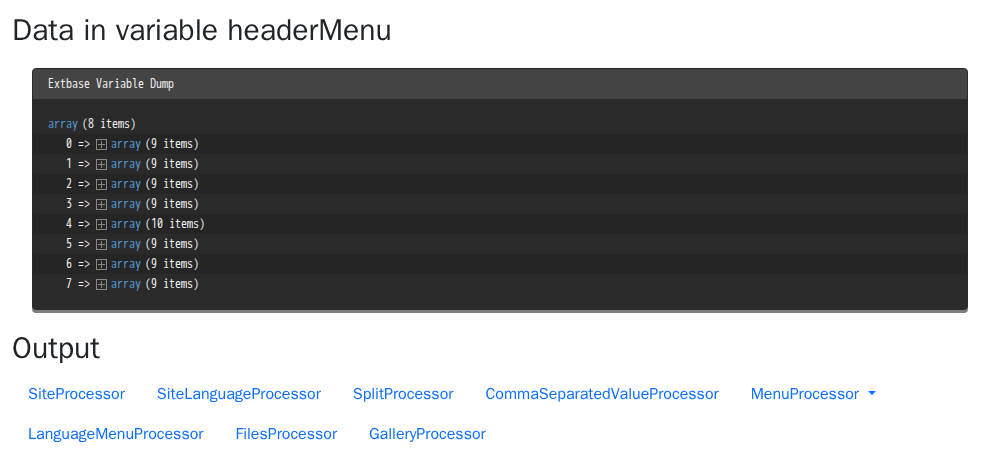
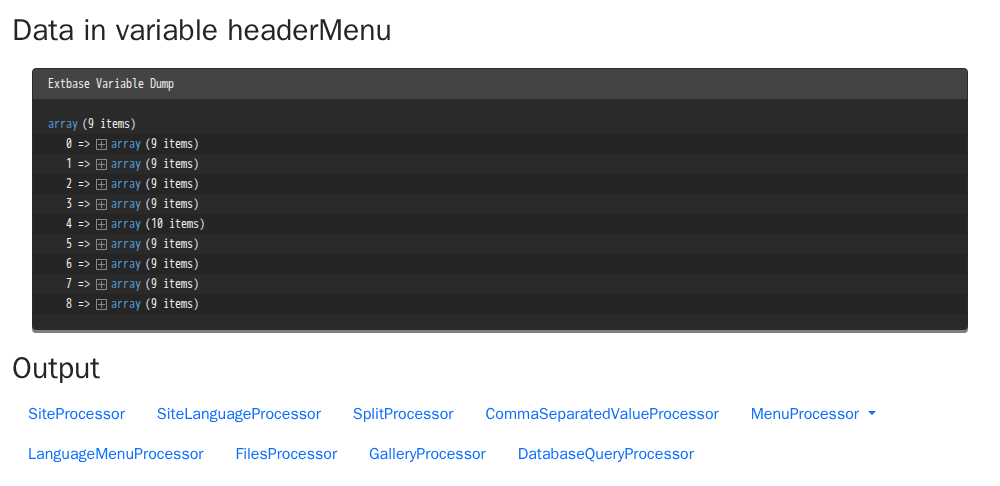
[TASK] Replace the haiku example of the database query processor (#2068)
* [TASK] Replace the haiku example of the database query processor

The example read records of a table from the examples extension, which
the manual does not ship. It now lists the speakers of a conference from
an example extension of this manual, whose files the page includes, and
the screenshot generator renders it with the speakers it creates.

Releases: main, 14.3
Assisted-by: Claude Opus 5.5 <noreply@anthropic.com>

* [TASK] Follow the writing rules in the speaker example

Releases: main, 14.3
Assisted-by: Claude Opus 5.5 <noreply@anthropic.com>

---------

diff --git a/Documentation/CodeSnippets/my_extension/Resources/Private/Templates/ContentElements/Speakers.fluid.html b/Documentation/CodeSnippets/my_extension/Resources/Private/Templates/ContentElements/Speakers.fluid.html
@@ -1,0 +1,22 @@
+<html data-namespace-typo3-fluid="true" xmlns:f="http://typo3.org/ns/TYPO3/CMS/Fluid/ViewHelpers">
+  <h2>Data in variable speakers</h2>
+  <f:debug inline="true">{speakers}</f:debug>
+
+  <h2>Output</h2>
+  <div class="row">
+    <f:for each="{speakers}" as="speaker">
+      <div class="col-12 col-md-4">
+        <div class="card">
+          <f:if condition="{speaker.files.0}">
+            <f:image image="{speaker.files.0}" class="card-img-top h-auto" width="400"/>
+          </f:if>
+          <div class="card-body">
+            <h5 class="card-title">{speaker.data.name}</h5>
+            <h6 class="card-subtitle text-body-secondary">{speaker.data.company}</h6>
+            <div class="card-text"><f:format.html>{speaker.data.bio}</f:format.html></div>
+          </div>
+        </div>
+      </div>
+    </f:for>
+  </div>
+</html>

diff --git a/Build/Screenshots/create-records.php b/Build/Screenshots/create-records.php
@@ -306,6 +306,9 @@ $examples = [
         // The example takes the border from this field
         'imageborder' => 1,
     ],
+    // The TypoScript of this example comes with the set of the example
+    // extension in Documentation/CodeSnippets/my_extension
+    'dataProcDb' => ['title' => 'DatabaseQueryProcessor', 'CType' => 'myextension_speakers'],
 ];
 $dataHandler = $process(['pages' => [
     'NEWdataProcessors' => ['pid' => 0, 'title' => 'Data processors', 'is_siteroot' => 1, 'hidden' => 0],
@@ -327,6 +330,13 @@ $process(['pages' => [
     'NEWmenuPage2' => ['pid' => $uids['dataProcMenu'], 'title' => 'Second page', 'hidden' => 0],
     'NEWmenuPage1' => ['pid' => $uids['dataProcMenu'], 'title' => 'First page', 'hidden' => 0],
 ]]);
+// The folder with the speakers that the database query example reads from
+// the field "pages" of its content element
+$dataHandler = $process(['pages' => [
+    'NEWspeakers' => ['pid' => $uids['dataProcDb'], 'title' => 'Speakers', 'doktype' => 254, 'hidden' => 0],
+]]);
+$uids['speakers'] = $dataHandler->substNEWwithIDs['NEWspeakers'];
+$examples['dataProcDb']['pages'] = (string)$uids['speakers'];
 // The content element types exist only in the TypoScript of the examples,
 // not in the TCA, so the DataHandler would refuse them. The CSV example
 // reads its separator from a field of the examples extension.
@@ -350,6 +360,36 @@ foreach ([[0x1f6feb, 'Blue circle'], [0x2da44e, 'Green circle'], [0xfb8500, 'Ora
     imagepng($image, $path);
     $files[] = [$storage->addFile($path, $folder, strtolower(str_replace(' ', '-', $title)) . '.png'), $title];
 }
+// The speakers of the example extension, the first one with a photo: a
+// drawn silhouette
+$image = imagecreatetruecolor(600, 600);
+imagefill($image, 0, 0, imagecolorallocate($image, 0xdd, 0xe3, 0xea));
+$grey = imagecolorallocate($image, 0x8c, 0x95, 0x9f);
+imagefilledellipse($image, 300, 230, 220, 220, $grey);
+imagefilledellipse($image, 300, 600, 440, 380, $grey);
+imagepng($image, Environment::getVarPath() . '/speaker.png');
+$photo = $storage->addFile(Environment::getVarPath() . '/speaker.png', $folder, 'speaker.png');
+$speakers = [
+    ['Alex Example', 'Example Agency', '<p>Alex builds extensions for <strong>public institutions</strong>.</p>'],
+    ['Robin Sample', 'Sample Ltd', '<p>Robin maintains the TypoScript of several large sites.</p>'],
+    ['Kai Muster', 'Muster AG', '<p>Kai teaches editors how to work with content elements.</p>'],
+];
+$dataHandler = $process(['tx_myextension_speaker' => array_combine(
+    array_map(static fn(int $i): string => 'NEWspeaker' . $i, array_keys($speakers)),
+    array_map(static fn(array $speaker): array => [
+        'pid' => $uids['speakers'], 'name' => $speaker[0], 'company' => $speaker[1], 'bio' => $speaker[2],
+    ], $speakers)
+)]);
+$process([
+    'sys_file_reference' => ['NEWphoto' => [
+        'pid' => $uids['speakers'],
+        'uid_local' => $photo->getUid(),
+        'uid_foreign' => $dataHandler->substNEWwithIDs['NEWspeaker0'],
+        'tablenames' => 'tx_myextension_speaker',
+        'fieldname' => 'photo',
+    ]],
+    'tx_myextension_speaker' => [$dataHandler->substNEWwithIDs['NEWspeaker0'] => ['photo' => 'NEWphoto']],
+]);
 foreach ($examples as $key => $example) {
     $contentConnection->insert('tt_content', array_merge(
         array_diff_key($example, ['title' => true, 'snippet' => true, 'images' => true]),
@@ -370,11 +410,13 @@ foreach ($examples as $key => $example) {
             'crdate' => time(),
         ]);
     }
-    $setup .= "\n" . $snippet('CodeSnippets/DataProcessing/TypoScript/' . $example['snippet'] . '.typoscript');
+    if (isset($example['snippet'])) {
+        $setup .= "\n" . $snippet('CodeSnippets/DataProcessing/TypoScript/' . $example['snippet'] . '.typoscript');
+    }
 }
 $configuration['rootPageId'] = $uids['dataProcessors'];
 $configuration['base'] = 'http://localhost:8080/data-processors/';
-$configuration['dependencies'] = ['typo3/fluid-styled-content'];
+$configuration['dependencies'] = ['typo3/fluid-styled-content', 'myvendor/my-extension'];
 // Languages that the pages are not translated into, which the language
 // menu example shows as unavailable
 $language = $configuration['languages'][0];

diff --git a/Documentation/CodeSnippets/my_extension/Configuration/TCA/tx_myextension_speaker.php b/Documentation/CodeSnippets/my_extension/Configuration/TCA/tx_myextension_speaker.php
@@ -1,0 +1,53 @@
+<?php
+
+return [
+  'ctrl' => [
+    'title' => 'Speaker',
+    'label' => 'name',
+    'tstamp' => 'tstamp',
+    'crdate' => 'crdate',
+    'delete' => 'deleted',
+    'default_sortby' => 'name',
+    'enablecolumns' => [
+      'disabled' => 'hidden',
+    ],
+    'typeicon_classes' => [
+      'default' => 'status-user-frontend',
+    ],
+  ],
+  'columns' => [
+    'name' => [
+      'label' => 'Name',
+      'config' => [
+        'type' => 'input',
+        'required' => true,
+      ],
+    ],
+    'company' => [
+      'label' => 'Company',
+      'config' => [
+        'type' => 'input',
+      ],
+    ],
+    'bio' => [
+      'label' => 'Biography',
+      'config' => [
+        'type' => 'text',
+        'enableRichtext' => true,
+      ],
+    ],
+    'photo' => [
+      'label' => 'Photo',
+      'config' => [
+        'type' => 'file',
+        'maxitems' => 1,
+        'allowed' => 'common-image-types',
+      ],
+    ],
+  ],
+  'types' => [
+    '0' => [
+      'showitem' => 'name, company, bio, photo, --div--;Access, hidden',
+    ],
+  ],
+];

diff --git a/Documentation/DataProcessing/DatabaseQueryProcessor.rst b/Documentation/DataProcessing/DatabaseQueryProcessor.rst
@@ -103,38 +103,41 @@ For usage of the variables within Fluid see
 
 ..  _databasequeryprocessor-examples:
 
-Example: Display haiku records
-==============================
+Example: Display speaker records
+================================
 
 Please see also :ref:`About the examples <dataprocessing-about-examples>`.
+
+In this example, an extension stores the speakers of a conference in the
+table `tx_myextension_speaker`, with the fields `name`, `company`, `bio`, and
+`photo`. A content element lists the speakers from the folder in its field
+`pages`.
 
 ..  rubric:: TypoScript
 
 We define the :typoscript:`dataProcessing` property to use the
 :php-short:`\TYPO3\CMS\Frontend\DataProcessing\DatabaseQueryProcessor`:
 
-..  literalinclude:: /CodeSnippets/DataProcessing/TypoScript/DatabaseQueryProcessor.typoscript
-    :caption: EXT:examples/Configuration/TypoScript/DataProcessors/Processors/DatabaseQueryProcessor.typoscript
+..  literalinclude:: /CodeSnippets/my_extension/Configuration/Sets/Main/setup.typoscript
+    :caption: EXT:my_extension/Configuration/Sets/Main/setup.typoscript
 
 ..  rubric:: The Fluid template
 
-In the Fluid template then iterate over the records. As we used the recursive
-data processor :ref:`files data processor <filesprocessor>` on the image records, we can also output
-the images.
+In the Fluid template, iterate over the records. As the
+:ref:`files data processor <filesprocessor>` processes the photo of each
+record, the template can output the photos as well.
 
-..  literalinclude:: /CodeSnippets/DataProcessing/Template/DataProcDb.fluid.html
-    :caption: EXT:examples/Resources/Private/Templates/ContentElements/DataProcDb.fluid.html
+..  literalinclude:: /CodeSnippets/my_extension/Resources/Private/Templates/ContentElements/Speakers.fluid.html
+    :caption: EXT:my_extension/Resources/Private/Templates/ContentElements/Speakers.fluid.html
 
 ..  rubric:: Output
 
 Each entry of the records array contains the data of the table in `data`
-and the data of the images in `files`.
+and the data of the photo in `files`.
 
-..  figure:: /Images/ManualScreenshots/FrontendOutput/DataProcessing/DatabaseProcessor.png
+..  figure:: /Images/GeneratedScreenshots/DataProcessing/DatabaseQueryProcessor.png
     :class: with-shadow
-    :alt: Haiku record data dump and output
-
-    Haiku record data dump and output
+    :alt: Dump of the speaker records and the list of speakers
 
 ..  _databasequeryprocessor-examples:
 
